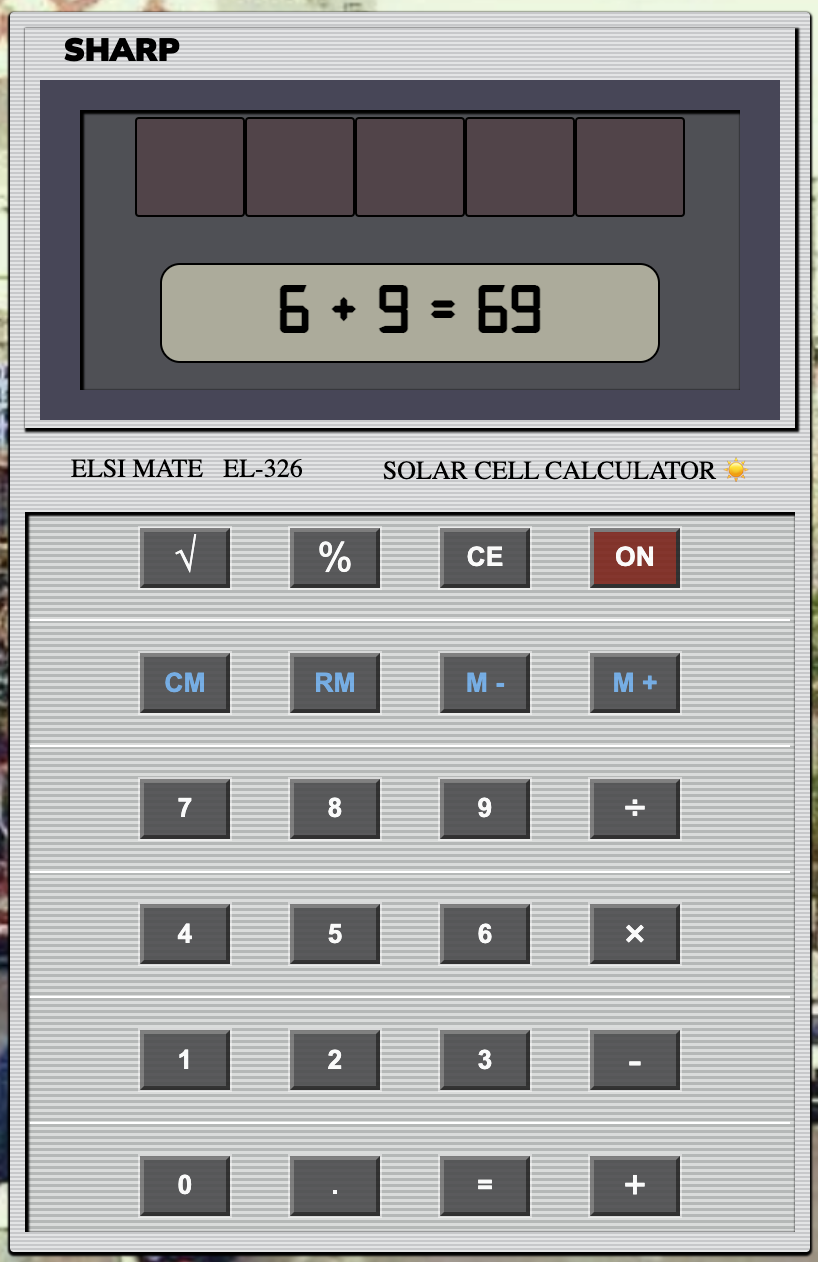
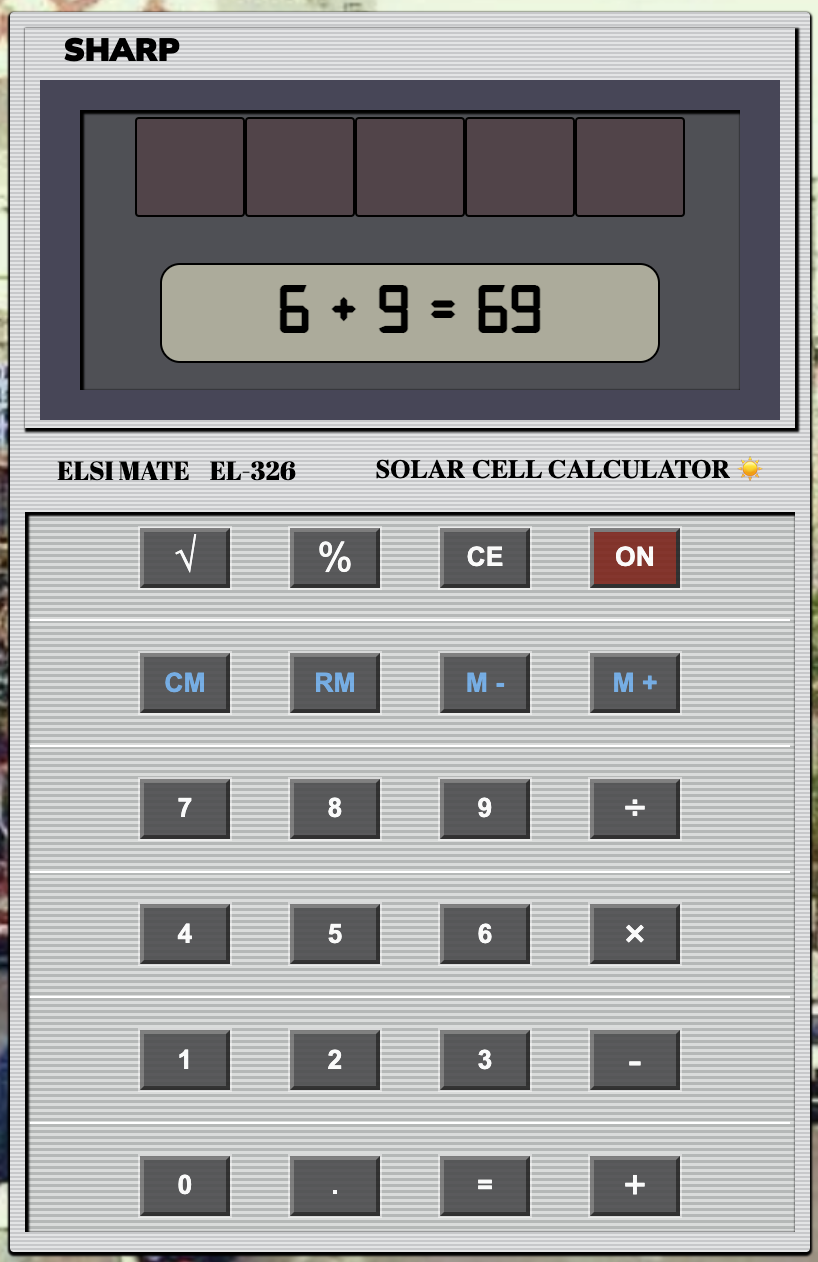
minor picture changes

Changed region(s): [[0.4584, 0.3399, 0.9169, 0.4017], [0.0611, 0.3399, 0.3667, 0.4017]]

diff --git a/styles.css b/styles.css
@@ -1,5 +1,6 @@
 
 @import url('https://fonts.googleapis.com/css2?family=Nunito+Sans:opsz,wght@6..12,400;6..12,1000&family=Roboto:ital,wght@0,400;1,300&family=VT323&display=swap');
+@import url('https://fonts.googleapis.com/css2?family=Abril+Fatface&family=Nunito+Sans:opsz,wght@6..12,400;6..12,1000&family=Roboto:ital,wght@0,400;1,300&family=VT323&display=swap');
 @font-face {
     font-family: 'Digital-7 Regular';
     font-style: normal;
@@ -109,13 +110,26 @@ body{
 }
 .body-text{
     display: flex;
-    justify-content: space-between;
+    justify-content: baseline;
     font-size: small;
     gap: 40px;
+    
 }
 .text1{
     display: flex;
     gap:10px;
+
+}
+.text-head{
+    font-family: 'Abril Fatface';
+}
+.text-model{
+    font-family: 'Abril Fatface';
+    font-weight: 300;
+}
+.text2{
+    font-weight:550;
+
 }
 
 .emoji{
